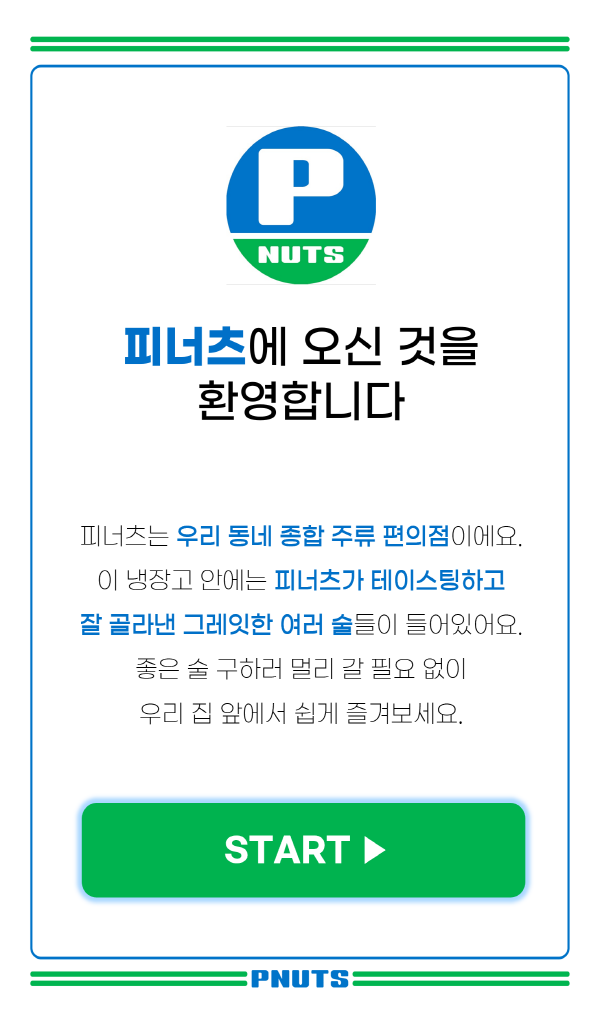
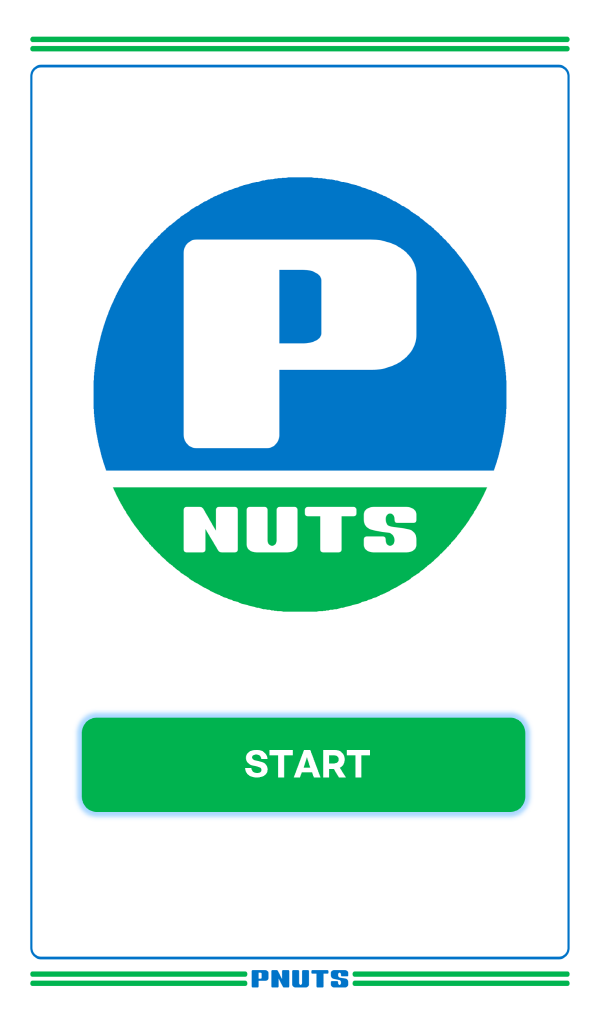
인퍼런스 모드로 변경
도어만 여는것에서 인퍼런스 체크하는 모드로 변경,
START 터치해서 QR 스캔 또는 START화면에서 QR 스캔 모두 가능하도록 변경,
화면 터치 시 소리 나도록 변경(touch.mp3)
냉장고 상태체크시 속도가 느리면 로딩화면 보여지도록 변경

diff --git a/src/adult_gui_main.py b/src/adult_gui_main.py
@@ -28,6 +28,7 @@ class Uipage:
         self.device_err_img = PhotoImage(file=self.cf_path + 'asset/DEVICE_ERR.png')
         self.fail_img = PhotoImage(file=self.cf_path + 'asset/DEVICE_FAIL.png')
         self.admin_img = PhotoImage(file=self.cf_path + 'asset/ADMIN.png')
+        self.loading_img = PhotoImage(file=self.cf_path + 'asset/LOADING.png')
         self.canvas.bind("<Button-1>", self.S_BTN)
         self.readRedis()
         self.rd.flushdb()
@@ -93,12 +94,12 @@ class Uipage:
         if flg == None:
             pass
         elif flg == b'start':
-            if 75 < event.x < 530 and 795 < event.y < 905:
-                self.rd.set('msg', '000') #임시
-                # request_main.check_status()
-        elif flg == b'auth_adult':
-            if 75 < event.x < 530 and 795 < event.y < 905:
-                self.START_PAGE()
+            if 75 < event.x < 530 and 710 < event.y < 820:
+                self.canvas.create_image(0, 0, anchor=NW, image=self.loading_img)
+                request_main.check_status()
+        # elif flg == b'auth_adult':
+        #     if 75 < event.x < 530 and 795 < event.y < 905:
+        #         self.START_PAGE()
         elif flg == b'auth_first':
             if 75 < event.x < 530 and 795 < event.y < 905:
                 self.START_PAGE()
@@ -121,27 +122,27 @@ class Uipage:
     def AUTH_ADULT(self):
         self.rd.set('nowPage', 'auth_adult')
         self.canvas.create_image(0, 0, anchor=NW, image=self.auth_adult_img)
-        self.comeback()
+        # self.comeback()
 
     # 카카오 지갑 첫 시도
     def AUTH_FIRST(self):
         self.rd.set('nowPage', 'auth_first')
         self.canvas.create_image(0, 0, anchor=NW, image=self.auth_first_img)
-        # self.comeback()
+        self.comeback()
         self.cnt = 0
 
     # 성인 인증 실패
     def AUTH_FAIL(self):
         self.rd.set('nowPage', 'auth_fail')
         self.canvas.create_image(0, 0, anchor=NW, image=self.auth_fail_img)
-        # self.comeback()
+        self.comeback()
         self.cnt = 0
 
     # 다른 QR로 인한 성인 인증 실패
     def AUTH_FAIL_1(self):
         self.rd.set('nowPage', 'auth_fail_1')
         self.canvas.create_image(0, 0, anchor=NW, image=self.auth_fail_1_img)
-        # self.comeback()
+        self.comeback()
         self.cnt = 0
 
     # 문열리고 쇼핑시작
@@ -153,7 +154,7 @@ class Uipage:
     def FAIL_PAGE(self):
         self.rd.set('nowPage', 'fail')
         self.canvas.create_image(0, 0, anchor=NW, image=self.fail_img)
-        # self.comeback()
+        self.comeback()
         self.cnt = 0
 
     # 키오스크 장치 오류
@@ -179,8 +180,14 @@ class Uipage:
 
             elif msg == b'000':
                 self.AUTH_ADULT()
+                self.comeback()
                 self.playWav('auth_kakao')
                 self.rd.delete('msg')
+
+            elif msg == b'002':
+                self.SHOPPING_PAGE()
+                self.playWav('shopping')
+                self.rd.delete("msg")
 
             elif msg == b'auth_first':
                 self.AUTH_FIRST()
@@ -224,6 +231,10 @@ class Uipage:
             elif msg == b'door_close':
                 self.START_PAGE()
                 self.playWav('door_close')
+                self.rd.delete('msg')
+
+            elif msg == b'loading':
+                self.canvas.create_image(0, 0, anchor=NW, image=self.loading_img)
                 self.rd.delete('msg')
 
         except Exception as ex:

diff --git a/src/door_main.py b/src/door_main.py
@@ -1,5 +1,7 @@
 # Made by Kim.Seung.Hwan / ksana1215@interminds.ai
 # -*- coding: utf-8 -*-
+import threading
+
 import serial
 import redis
 import logging
@@ -18,6 +20,27 @@ logging.basicConfig(filename=cf_path+'kiosk_status.log',level=logging.DEBUG)
 logger = logging.getLogger('UNO_LOG')
 cnt = 0
 
+def alarm():
+    status = rd.get('door')
+    global cnt
+    if status == b'customer' or status == b'admin_open':
+        cnt += 1
+        if cnt > 600:
+            logger.info(log_time)
+            if status == b'customer':
+                playsound(cf_path + 'voice/' + "long.mp3", False)
+                rd.set('err_type', 'long')
+                request_main.device_err()
+                cnt = 0
+            elif status == b'admin_open':
+                playsound(cf_path + 'voice/' + "longlong.mp3", False)
+                cnt = 0
+
+        threading.Timer(1, alarm).start()
+    else:
+        cnt = 0
+        return
+
 while True:
     log_time = datetime.datetime.now()
     log_time = log_time.strftime("%Y-%m-%d-%H:%M:%S")
@@ -29,42 +52,27 @@ while True:
             Arduino.write(str('1').encode('utf-8'))
             rd.set('door', 'customer')
             logger.info(f'[{log_time} | DOOR_OPEN --> CLIENT]')
-            # request_main.door_open()
+            request_main.door_open()
+            alarm()
 
-        #100초 알림
-        # elif door == b'customer' or door == b'admin_open':
-        #     cnt += 1
-        #     if cnt > 3000:
-        #         logger.info(log_time)
-        #         if door == b'customer':
-        #             playsound(cf_path + 'voice/' + "long.mp3", False)
-        #             rd.set('err_type', 'long')
-        #             request_main.device_err()
-        #             cnt = 0
-        #         elif door == b'admin_open':
-        #             playsound(cf_path + 'voice/' + "longlong.mp3", False)
-        #             cnt = 0
-        # else:
-        #     cnt = 0
         #관리자 문열림
         if door == b'admin':
             Arduino.write(str('1').encode('utf-8'))
             rd.set('door', 'admin_open')
-            # request_main.admin_open()
+            request_main.admin_open()
+            alarm()
+
         #문닫힘
         if uno == b'0\r\n':
             #관리자 권한
             if door == b'admin_open':
-                rd.set('msg', 'admin_close') #임시
-                # request_main.admin_close()
+                request_main.admin_close()
             #고객
             elif door == b'customer':
                 logger.info(f'[{log_time} | DOOR_CLOSE --> CLIENT]')
                 rd.delete('door')
-                rd.set('msg', 'door_close')
-                # if rd.get('err_type') is not None:
-                #     request_main.release_err()
-                # request_main.door_close()
+                # rd.set('msg', 'door_close')
+                request_main.door_close()
         #문여닫힘 에러
         if uno == b'2\r':
             rd.set('err_type','except')
@@ -73,6 +81,7 @@ while True:
     except Exception as err:
         rd.set('err_type', 'except')
         rd.set('msg', 'device_err')
+        rd.delete('door')
         request_main.device_err()
         logger.info(f'[{log_time} | ARDUINO FAIL]' + '\n' + str(err))
         break

diff --git a/src/auth_main.py b/src/auth_main.py
@@ -11,6 +11,9 @@ import urllib3
 import request_main
 
 cf_path = config.path['path']
+cf_company_id = config.refrigerators['companyId']
+cf_store_id = config.refrigerators['storeId']
+cf_device_id = config.refrigerators['deviceId']
 cf_scanner_port = config.refrigerators['scanner']
 rd = redis.StrictRedis(host='localhost', port=6379, db=0)
 Scanner = serial.Serial(port=cf_scanner_port, baudrate=9600, timeout=1)
@@ -19,16 +22,22 @@ logging.getLogger("urllib3").setLevel(logging.WARNING)
 logging.basicConfig(filename=cf_path + 'kiosk_status.log', level=logging.DEBUG)
 logger = logging.getLogger('QRC_LOG')
 
+# phase_storeId = 'is00000002'
+# phase_storeId = 's_00001'
 
-def auth_phase(auth_type):
-    data = {'companyId': '0001', 'storeId': 's_00001', 'orderId': auth_time, 'type': auth_type,
+def auth_phase(auth_type, page):
+    data = {'companyId': cf_company_id, 'storeId': cf_store_id, 'orderId': auth_time, 'type': auth_type,
             'barcode': barcode}
+    # data = {'companyId': '0001', 'storeId': 'PTY_0001', 'orderId': auth_time, 'type': auth_type,
+    #         'barcode': barcode}
     res = requests.post('http://phasecommu.synology.me:3535/api/adult', json=data, verify=False, timeout=30)
     if json.loads(res.text)["resultCode"] == "200":
-        rd.set('door', 'open')
-        rd.set('msg', 'shopping')
-        rd.set('nowPage', 'shopping')
         logger.info(f'[{log_time} | Adult Auth Success]' + '\n' + str(res.text))
+        if page == b'start':
+            request_main.check_status(1)
+        elif page == b'auth_adult':
+            rd.set('door', 'open')
+            rd.set('msg', 'shopping')
     elif json.loads(res.text)["resultCode"] == "-403":
         rd.set('msg', 'auth_first')
         logger.info(f'[{log_time} | Adult Auth Fail]' + '\n' + str(res.text))
@@ -49,15 +58,14 @@ while True:
         barcode = Scanner.readline()
         barcode = barcode.decode('utf-8').rstrip()
         # 관리자 바코드
-        if len(barcode) > 0 and page == b'start' and barcode == '0123456789':
+        if len(barcode) > 0 and page == b'start' and barcode == 'pnuts1234':
             rd.set('msg', 'admin')
             rd.set('door', 'admin')
-        if len(barcode) > 0 and page == b'auth_adult':
-            auth_phase('1')
-        # if len(barcode) > 0 and page == b'auth_kakao':
-        #     auth_phase('1')
-        # if len(barcode) > 0 and page == b'auth_mois':
-        #     auth_phase('2')
+        elif len(barcode) > 0 and page == b'auth_adult':
+            auth_phase('1', page)
+        elif len(barcode) > 0 and page == b'start':
+            rd.set('msg', 'loading')
+            auth_phase('1', page)
 
     except Exception as err:
         rd.set('err_type', 'except')

diff --git a/src/request_main.py b/src/request_main.py
@@ -23,7 +23,7 @@ rd = redis.StrictRedis(host='localhost', port=6379, db=0)
 msg = rd.get('msg')
 
 # 상태조회
-def check_status():
+def check_status(type=0):
     log_time = datetime.datetime.now()
     log_time = log_time.strftime("%Y-%m-%d-%H:%M:%S")
     res = requests.post(f'{cf_master_server}check_status_sbc',
@@ -32,7 +32,11 @@ def check_status():
     json_data = json.loads(res.text)
     result_code = str(json_data['resultCode'])
     if result_code == '000':
-        rd.set('msg', '000')
+        if type == 1: # START에서 바로 QR찍고 넘어왔을때
+            rd.set('msg', '002')
+            rd.set('door', 'open')
+        else:
+            rd.set('msg', '000')
         logger.info(f'[{log_time} | check_status_sbc]' + '\n' + str(res.text))
     else:
         rd.set('msg', '001')
@@ -54,7 +58,7 @@ def door_close():
                               "needSalesInfo": "true"}, verify=False)
     json_data = json.loads(res.text)
     logger.info(f'[{log_time} | LET\'s INFER]' + '\n' + str(json_data))
-    if len(str(json.loads(res.text)['resultCode'])) > 0:
+    if str(json.loads(res.text)['resultCode']) == '000':
         rd.set('msg', 'door_close')
     else:
         logger.info(f'[{log_time} | INF FAIL]')
